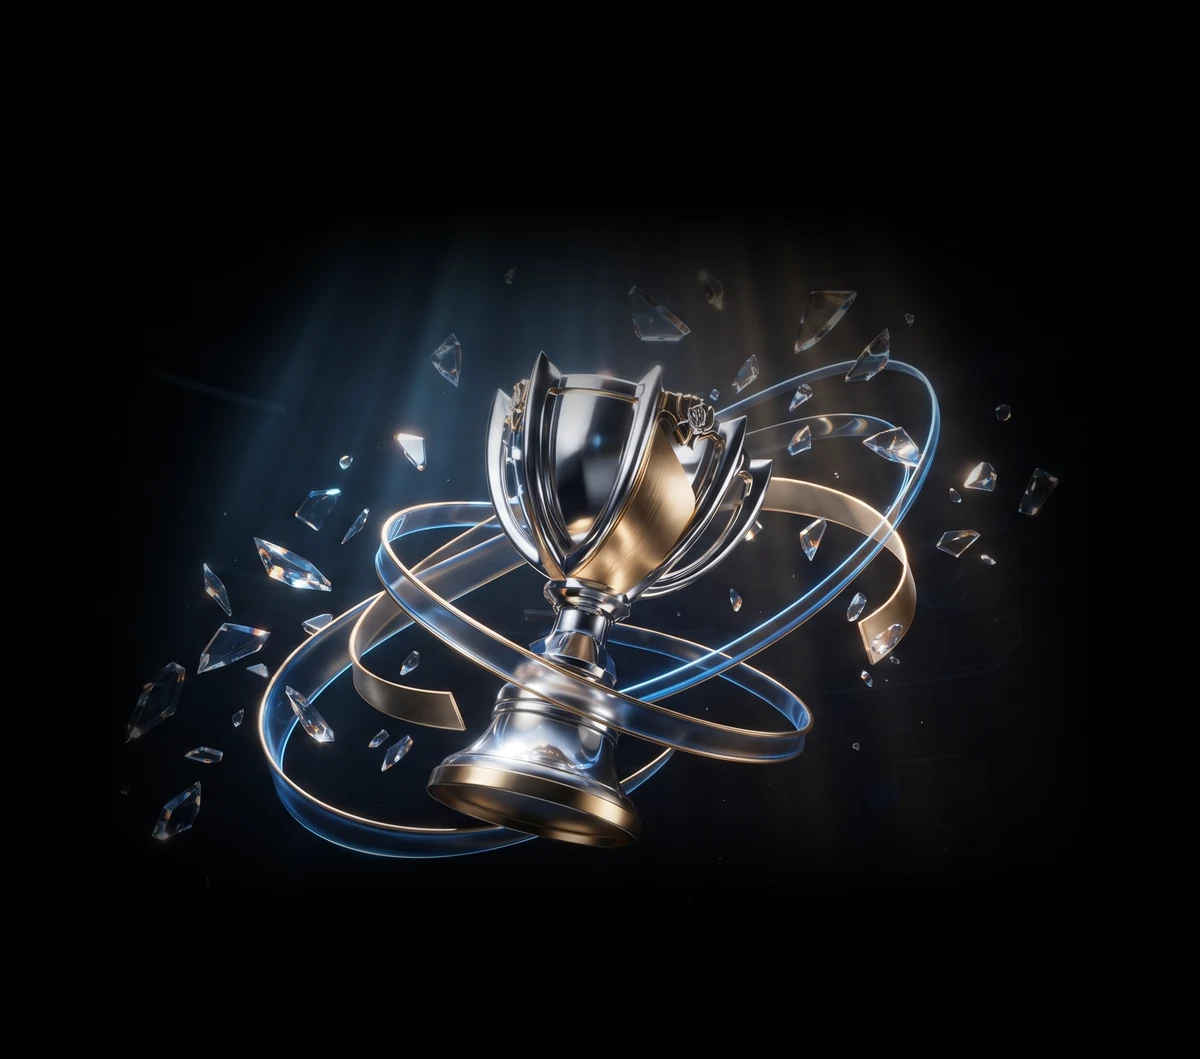
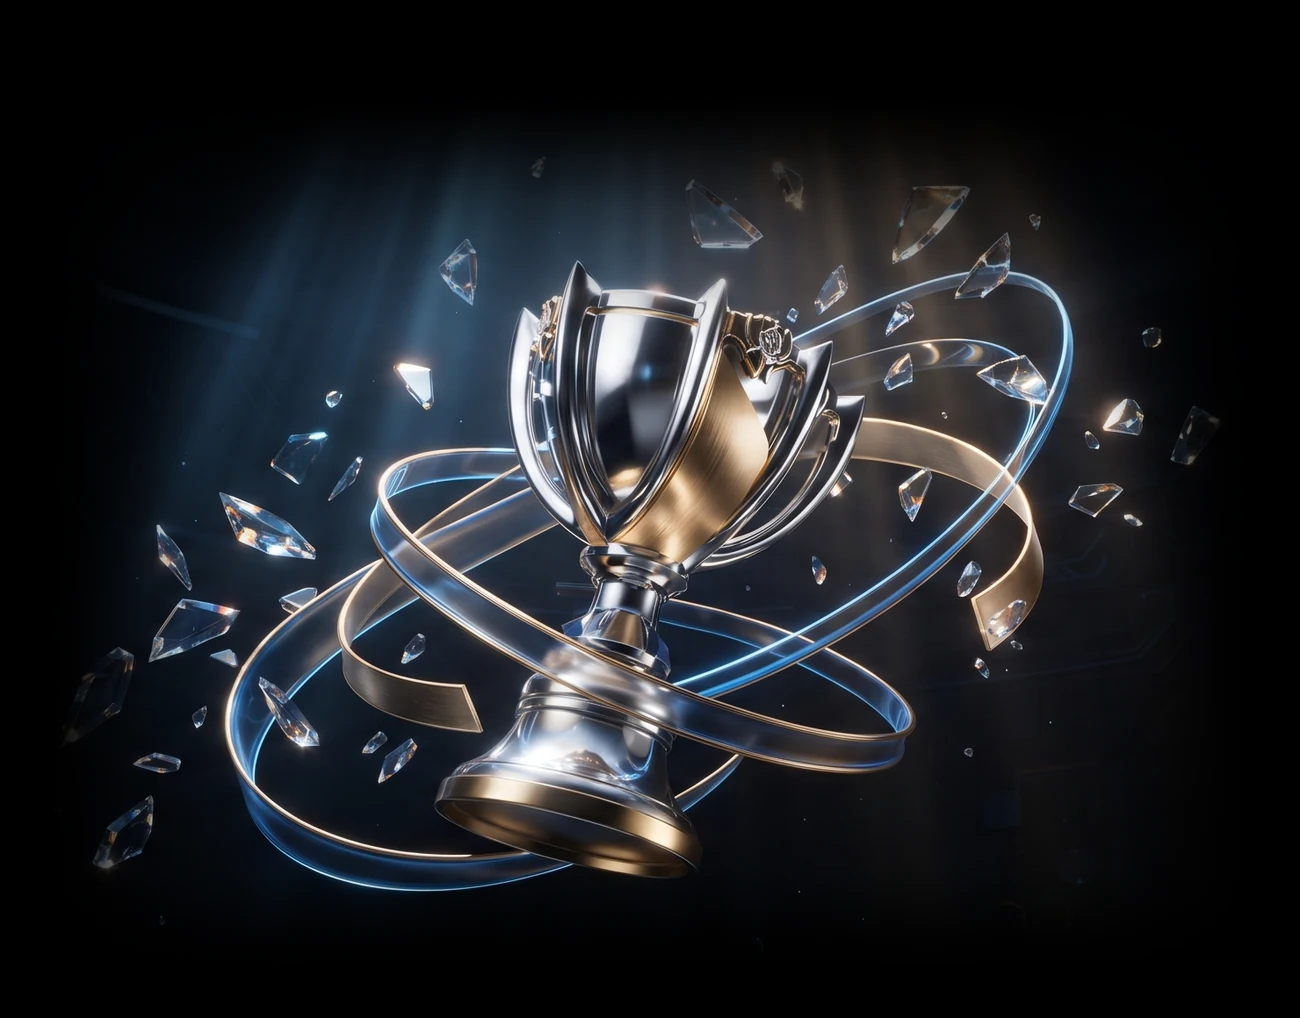
Hero: bigger trophy (tighter crop, larger panel that bleeds toward the edge)

diff --git a/web/app/globals.css b/web/app/globals.css
@@ -217,10 +217,10 @@ details.recall ul { margin: 8px 0 0; padding-left: 16px; }
 
 /* Split hero: copy on the left, the live dithered trophy on the right, melting into the page on every side. */
 .hero-split { padding: clamp(28px, 5vw, 56px) 0 8px; }
-.hero-grid { display: grid; grid-template-columns: 1.05fr 1fr; gap: 24px; align-items: center; }
+.hero-grid { display: grid; grid-template-columns: 1fr 1.15fr; gap: 8px; align-items: center; }
 .hero-text { position: relative; z-index: 1; }
 .hero-text h1 { margin: 10px 0 14px; }
-.hero-visual { position: relative; height: clamp(380px, 40vw, 600px); }
+.hero-visual { position: relative; height: clamp(440px, 46vw, 680px); margin: -40px calc(-1 * clamp(0px, (100vw - 1180px) / 2, 200px)) -40px -40px; }
 .hero-visual .art { height: 100%; }
 @media (max-width: 860px) { .hero-grid { grid-template-columns: 1fr; } .hero-visual { height: 320px; order: -1; } }
 
